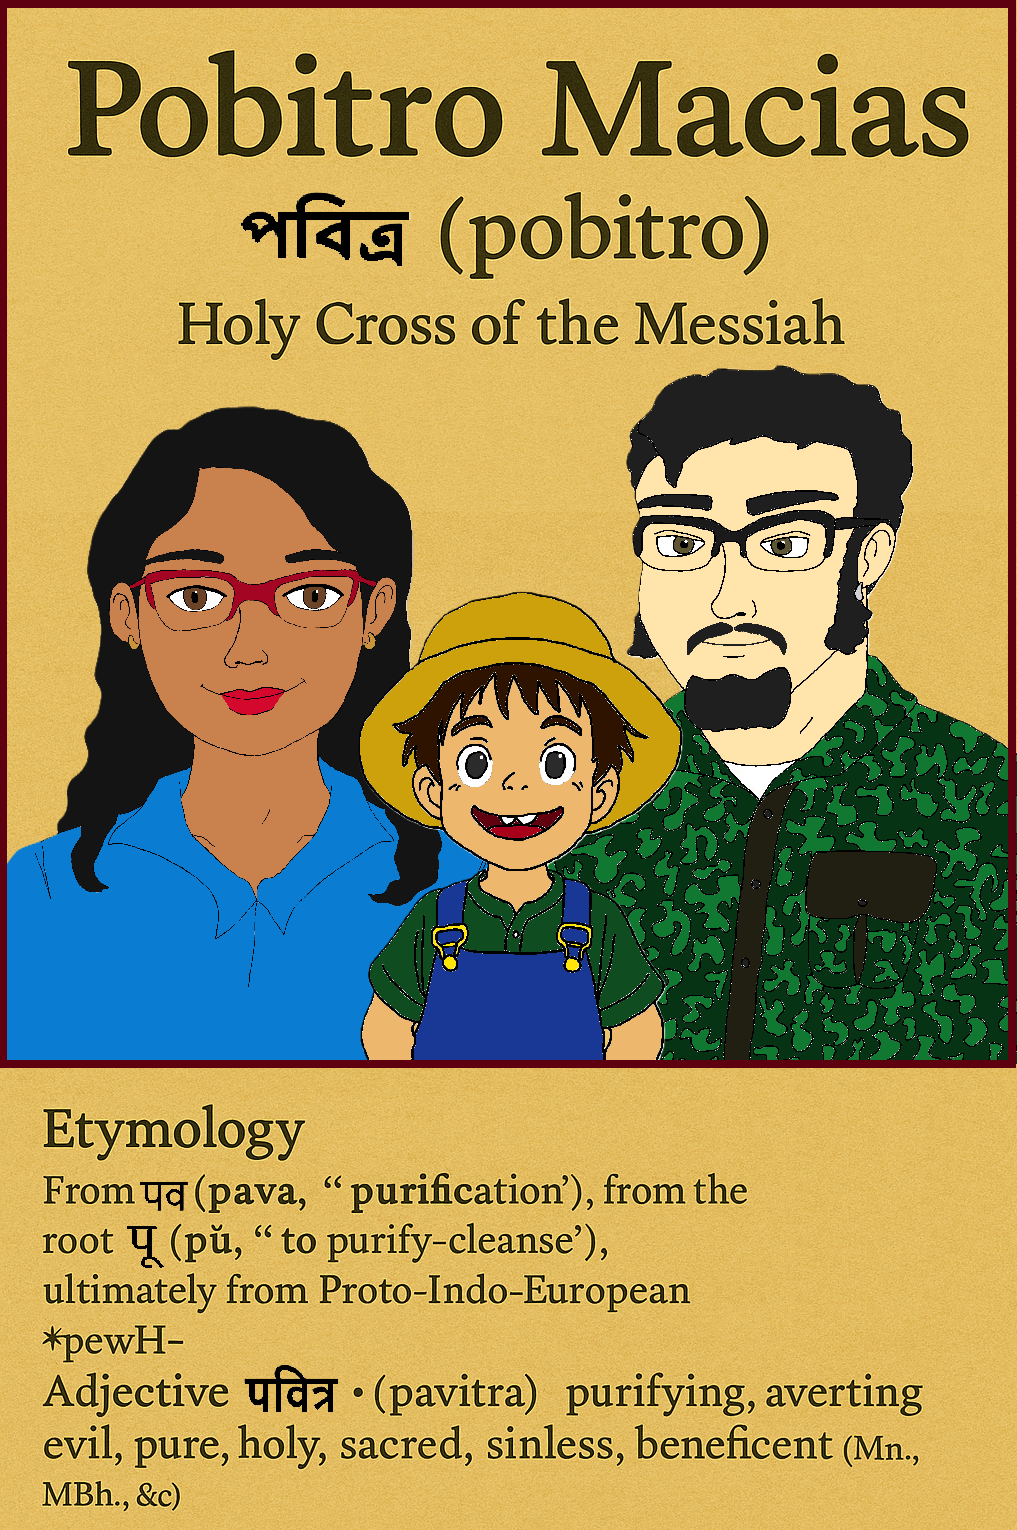
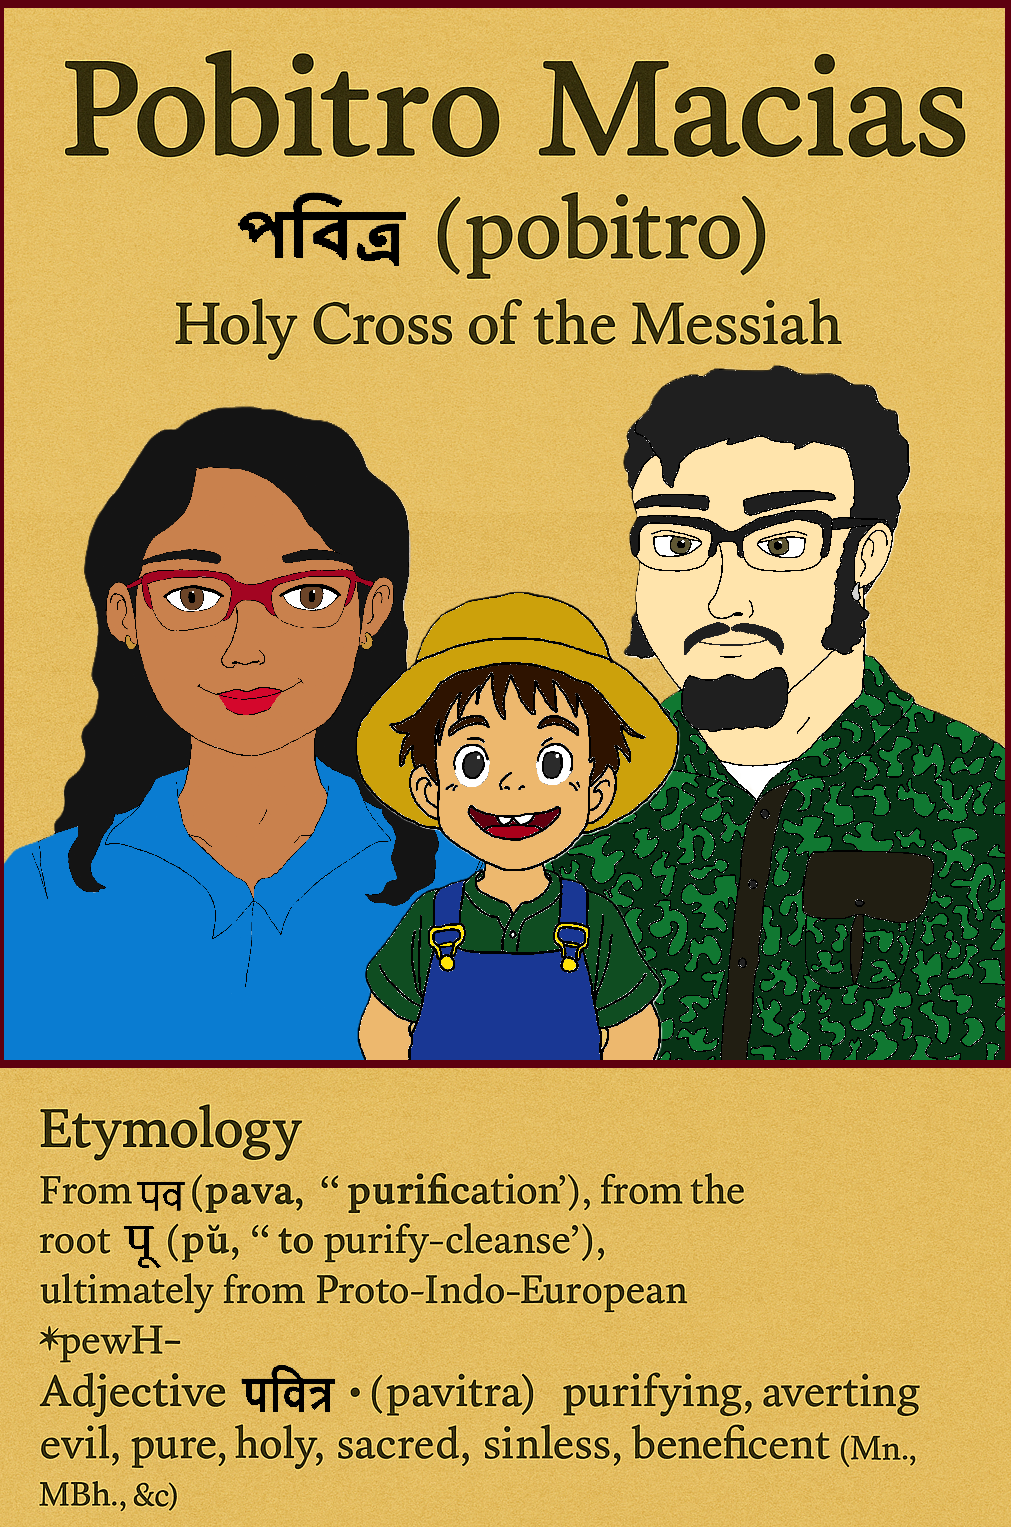
update

diff --git a/crossofthemessiah/index.html b/crossofthemessiah/index.html
@@ -355,6 +355,8 @@ body, h1,h2,h3,h4,h5,h6 {font-family: "Montserrat", sans-serif}
 	<div class="w3-padding-64 w3-content" id="photos">
     <h2 class="w3-text-light-grey"><a href="photoalbum.html">Sketches and Photographs</a> <a href="https://drive.google.com/drive/folders/1tDTRq-m46wLF8WEpApxl9wGyOSVyU3_F?usp=drive_link"><i class="fa-brands fa-google w3-medium"></i></a></h2>
 	<h3>View a full Catalog of my Artwork <a href="photoalbum.html#sketches">here</a> <a href="https://drive.google.com/drive/folders/1tDTRq-m46wLF8WEpApxl9wGyOSVyU3_F?usp=drive_link"><i class="fa-brands fa-google w3-medium"></i></a> or visit my <a href="https://www.deviantart.com/cmathdraw">DeviantArt Profile <i class="fa-brands fa-deviantart w3-large w3-hover-opacity"></i></a>. Some of the drawings were accepted into the <a href="https://kish.edu/student-life/student-involvement/arts-culture-events/gallery/collection/drawing.php">Kishwaukee College Art Gallery's 2011 Student Art Exhibition</a>.<br>This <a href="https://drive.google.com/file/d/1GVcf949XxdRvbNr3gCLY-wdNJCULsbxz/view?usp=sharing">self-portrait ink drawing</a> specifically was accepted into the 2011 Student Art Exhibition.</h3><img src="https://1drv.ms/i/c/351e429395ffd928/IQREpLvTLH6ZQZYiQ9m944AuAUlkWPidfqNOIsJ3_SZEmUU" style="width:55%">
+	<img src="https://1drv.ms/i/c/351e429395ffd928/IQSV7LlucndkSrx9-759z1EfAU9S9Op6TD6fEzSE8fUn3aE" style="width:55%">
+	<img src="https://1drv.ms/i/c/351e429395ffd928/IQTKVoKnbITeRLT6pE-H5R4kAce-ie46DXpcb-PonATimFQ" style="width:55%">
 	<img src="https://1drv.ms/i/c/351e429395ffd928/IQSlk_3ZZXx-TpgPlcGYxgMgAb8hJJSSPdHvj1OkrhL9DxI" style="width:55%">
 	<img src="https://1drv.ms/i/c/351e429395ffd928/IQRqp_AmXm11TL3OY_zEwa6UAb_cruillY_zb1w1ymdiPdM" style="width:55%">
     <hr style="width:200px" class="w3-opacity">
@@ -388,6 +390,8 @@ body, h1,h2,h3,h4,h5,h6 {font-family: "Montserrat", sans-serif}
 		<h3 class="w3-text-light-grey"><img src="https://1drv.ms/i/c/351e429395ffd928/IQRxnvg32tt5S6G0f6ce4LvsAbZJZ6t-rJCHEkTfkh2bEkk" style="width:55%"> Crepuscular Rays Kansas Tallgrass Prairie 2021: Facing East</h3>
 		<!--Solar Terminator Tallgrass Prairie 2021-->
 		<h3 class="w3-text-light-grey"><img src="https://1drv.ms/i/c/351e429395ffd928/IQRFqEQnpbFORIcDGQN5_obOAc38PEiYxcOr48kfQ6M6CXk" style="width:55%"> Solar Terminator Tallgrass Prairie 2021</h3>
+		<!--4 Mile Rainbow-->
+		<h3 class="w3-text-light-grey"><img src="https://1drv.ms/i/c/351e429395ffd928/IQTTFOz8LcKuQpkYsxP36vd_AcwsXsdWqLW7yUGtYASDyzI" style="width:55%">4 Mile Rainbow</h3>
 	 </div>
 		<h3 class="w3-text-light-grey"><a href="aillm.html">AILLM Experimentation</a></h3>
 		<h4 class="w3-text-light-grey">Ownership and commercial use rights is retained for any songs created during active subscription, even after cancelling. Proof of ownership is available upon request. For more information, please reference Suno KB at <a href="https://help.suno.com/en/articles/2421505">https://help.suno.com/en/articles/2421505</a></h4>
@@ -430,6 +434,8 @@ body, h1,h2,h3,h4,h5,h6 {font-family: "Montserrat", sans-serif}
 	 <div class="w3-third">
 	    <h3 class="w3-text-light-grey"><a href="aillm.html#aisketches">Sketches with AI</a></h3>
         <h3 class="w3-text-light-grey"><img src="https://1drv.ms/i/c/351e429395ffd928/IQSgv0Gu59SzT7qQZdb2g8DtASKJIidc_JzQn5YKi41bUzc" style="width:55%"> Hand Drawn Sketch of AI Image</h3>
+		<h3 class="w3-text-light-grey"><img src="https://1drv.ms/i/c/351e429395ffd928/IQTRGhrPujFtRaEDj0VTkr7lAQHmrlvxRqWfKGpqTOciHPc" style="width:55%">Generated by ChatGPT<img src="https://1drv.ms/i/c/351e429395ffd928/IQRgy45w4sX3Tp5x0Bkxq6OeAboKNp_FF7QthTkZMxp960I" style="width:55%"> Traced and colored with MS Paint.</h3>
+		<h3 class="w3-text-light-grey"><img src="https://1drv.ms/i/c/351e429395ffd928/IQQHP_WlFSQkTZJr76R400gcAW8lXPHv24P2UxPIhAjlLMI" style="width:55%"> Portraits sketched by hand and traced and colored in MS Paint. Background photographed taken using camera phone and restyled in ChatGPT.</h3>
        </div>
 	   <!--Angel Photos 2007 Taste of Chaos Tour-->
 	   <div class="w3-third">

diff --git a/crossofthemessiah/photoalbum.html b/crossofthemessiah/photoalbum.html
@@ -121,6 +121,7 @@ body, h1,h2,h3,h4,h5,h6 {font-family: "Montserrat", sans-serif}
     <h2 class="w3-text-light-grey">Sketches and Photographs</h2>
 	<h4 class="w3-text-light-grey">Due to a bug, Google's photo embedding Feature is disabled. To view the images in full size, please right-click the image and select "Open image in a new tab".</h4>
 	<h3>View a Catalog of my Artwork <a href="https://drive.google.com/drive/folders/1tDTRq-m46wLF8WEpApxl9wGyOSVyU3_F?usp=drive_link">here</a> or visit my <a href="https://www.deviantart.com/cmathdraw">DeviantArt Profile</a>. Some of the drawings were accepted into the <a href="https://kish.edu/student-life/student-involvement/arts-culture-events/gallery/collection/drawing.php">Kishwaukee College Art Gallery's 2011 Student Art Exhibition</a>.<br>This <a href="https://drive.google.com/file/d/1GVcf949XxdRvbNr3gCLY-wdNJCULsbxz/view?usp=sharing">self-portrait ink drawing</a> specifically was accepted into the 2011 Student Art Exhibition. This photo is kind of blurry, but I am in the process of reaching out to the college about getting a better copy of it.</h3><img src="https://1drv.ms/i/c/351e429395ffd928/IQREpLvTLH6ZQZYiQ9m944AuAUlkWPidfqNOIsJ3_SZEmUU" style="width:55%">
+
 	<img src="https://1drv.ms/i/c/351e429395ffd928/IQSlk_3ZZXx-TpgPlcGYxgMgAb8hJJSSPdHvj1OkrhL9DxI" style="width:55%"/>
 	<img src="https://1drv.ms/i/c/351e429395ffd928/IQQyWSOepJK5TJpTqinUnoM5AYZnvnbQIrgE6mYj8uetzrI" style="width:55%">
 	<img src="https://1drv.ms/i/c/351e429395ffd928/IQR5F67VpvoWSI8uOXxXZFgNAbPetcb-RMoJBMGN_OpzRag" style="width:55%">
@@ -131,6 +132,12 @@ body, h1,h2,h3,h4,h5,h6 {font-family: "Montserrat", sans-serif}
 	<img src="https://1drv.ms/i/c/351e429395ffd928/IQR-753GdDCuRaX1gGEfJKgUAVKD2Fj4ZIAoDhLFr3RknGw" style="width:55%">
 	<img src="https://1drv.ms/i/c/351e429395ffd928/IQShmheomQRqQpCUjb8Ko09OASsL4B2H68UXT0sJu9QxdA4" style="width:55%">
 	<img src="https://1drv.ms/i/c/351e429395ffd928/IQRbWn4WiWJBQZkalQXl04c8AewFuaDixiRLu_igTNjBNOg" style="width:55%">
+	<img src="https://1drv.ms/i/c/351e429395ffd928/IQRB8jDNtrSGQIoEFTZ3ltfSASe3hTtse9x1PoaynRgps8g" style="width:55%">
+	<img src="https://1drv.ms/i/c/351e429395ffd928/IQS1Dh4a3q_RQKlYUtOyKZzNAcAzKbFwiZIFA5q963Guzy4" style="width:55%">
+	<img src="https://1drv.ms/i/c/351e429395ffd928/IQSV7LlucndkSrx9-759z1EfAU9S9Op6TD6fEzSE8fUn3aE" style="width:55%">
+	<img src="https://1drv.ms/i/c/351e429395ffd928/IQRBCD_qCTJeSqBpVGS5pBLAAcTT9zfWYdIWNwiGrBKqwp8" style="width:55%">
+	<img src="https://1drv.ms/i/c/351e429395ffd928/IQQ8TG1H6wQCRJtmRGXBfkl4AREkoyjRux98tQkm3d9zjsI" style="width:55%">
+	<img src="https://1drv.ms/i/c/351e429395ffd928/IQTKVoKnbITeRLT6pE-H5R4kAce-ie46DXpcb-PonATimFQ" style="width:55%">
     <hr style="width:200px" class="w3-opacity">
 	 <div class="w3-row-padding" style="margin:0 -16px" id="celestial">
 	 <!--Celestial Photos-->
@@ -180,6 +187,8 @@ body, h1,h2,h3,h4,h5,h6 {font-family: "Montserrat", sans-serif}
 		<!--Solar Terminator Tallgrass Prairie 2021-->
 		<!-- Due to a bug, Google Embed Photo Feature down.-->
 		<h3 class="w3-text-light-grey"><img src="https://1drv.ms/i/c/351e429395ffd928/IQRFqEQnpbFORIcDGQN5_obOAc38PEiYxcOr48kfQ6M6CXk" style="width:55%"> Solar Terminator Tallgrass Prairie 2021</h3>
+		<!--4 Mile Rainbow-->
+		<h3 class="w3-text-light-grey"><img src="https://1drv.ms/i/c/351e429395ffd928/IQTTFOz8LcKuQpkYsxP36vd_AcwsXsdWqLW7yUGtYASDyzI" style="width:55%">4 Mile Rainbow</h3>
 	 </div>
 	 <div class="w3-row-padding" style="margin:0 -16px" id="mvstills">
 		<!--Music Video Captures-->

diff --git a/crossofthemessiah/aillm.html b/crossofthemessiah/aillm.html
@@ -201,6 +201,8 @@ body, h1,h2,h3,h4,h5,h6 {font-family: "Montserrat", sans-serif}
         <!--<h3 class="w3-text-light-grey"><img src="https://drive.google.com/uc?export=view&id=1FuavTUrDBM9Sr0KMsoa300QEkH2HAch-" style="width:100%"> AI Anime Interpretation <small>(image credit upon request)</small></h3>-->
         <h3 class="w3-text-light-grey"><img src="https://1drv.ms/i/c/351e429395ffd928/IQTebFpQng7OR4v3mKlvlYF9AR84iUUJZvCj7xW-0cbFEsg?width=640&height=640" style="width:55%"> AI Anime Interpretation <small>(image credit upon request)</small></h3>
         <h3 class="w3-text-light-grey"><img src="https://1drv.ms/i/c/351e429395ffd928/IQSgv0Gu59SzT7qQZdb2g8DtASKJIidc_JzQn5YKi41bUzc" style="width:55%"> Hand Drawn Sketch of AI Image</h3>
+        <h3 class="w3-text-light-grey"><img src="https://1drv.ms/i/c/351e429395ffd928/IQTRGhrPujFtRaEDj0VTkr7lAQHmrlvxRqWfKGpqTOciHPc" style="width:55%">Generated by ChatGPT<img src="https://1drv.ms/i/c/351e429395ffd928/IQRgy45w4sX3Tp5x0Bkxq6OeAboKNp_FF7QthTkZMxp960I" style="width:55%"> Traced and colored with MS Paint.</h3>
+		    <h3 class="w3-text-light-grey"><img src="https://1drv.ms/i/c/351e429395ffd928/IQQHP_WlFSQkTZJr76R400gcAW8lXPHv24P2UxPIhAjlLMI" style="width:55%"> Portraits sketched by hand and traced and colored in MS Paint. Background photographed taken using camera phone and restyled in ChatGPT.</h3>
       </div>
     </div>
 </div>

diff --git a/macias-baby-shower-2025/pobitro/index.html b/macias-baby-shower-2025/pobitro/index.html
@@ -67,13 +67,34 @@
     .references li {
         margin-bottom: 8px;
     }
+    .tooltip {
+        position: relative;
+    display: inline-block;
+        border-bottom: 1px dotted black;
+    }
+    .tooltip .tooltiptext {
+        visibility: hidden;
+        width: 120px;
+        background-color: black;
+        color: #fff;
+        text-align: center;
+        border-radius: 6px;
+        padding: 5px 0;
+
+        /* Position the tooltip */
+        position: absolute;
+        z-index: 1;
+    }
+    .tooltip:hover .tooltiptext {
+        visibility: visible;
+    }
 </style>
 </head>
 <body>
 <header>
-    <img src="PobitroEtymology-OriginalFamilyPortrait.png" alt="Pobitro Etymology" style="max-width: 100%; height: auto;">
+    <img src="PobitroEtymology-OriginalFamilyPortrait_v2.png" alt="Pobitro Etymology" style="max-width: 100%; height: auto;">
     <h1>Pobitro Macias</h1>
-    <h2>পবিত্র (pobitro) – Holy Cross of the Messiah</h2>
+    <div class="tooltip"><h2>পবিত্র (pobitro) - Holy Gift of God</h2><span class="tooltiptext">Holy Cross of the Messiah</span></div>
     <button class="pronounce-button" onclick="document.getElementById('audio').play()">🔊 Pronounce Name</button>
     <audio id="audio" src="LL-Q9610_(ben)-Titodutta-পবিত্র.wav"></audio>
 </header>
